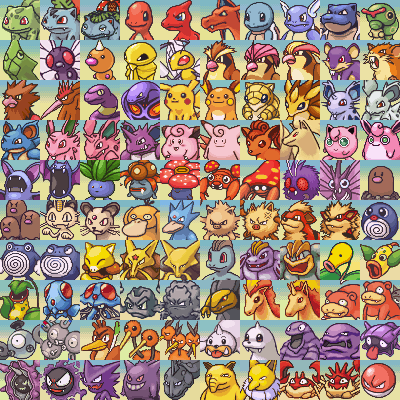
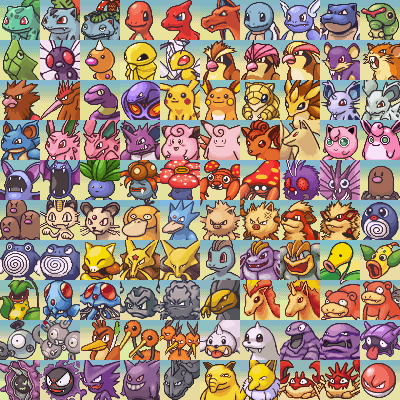
Supporting Shiny Pokémon!
Includes sprites for Shiny Bulbasaur & Bellsprout

Changed region(s): [[0.0, 0.0, 0.12, 0.12]]

diff --git a/PMDMMOc/src/com/darkxell/client/resources/images/pokemon/PokemonPortrait.java b/PMDMMOc/src/com/darkxell/client/resources/images/pokemon/PokemonPortrait.java
@@ -13,10 +13,16 @@ public class PokemonPortrait
 	private static final HashMap<Integer, Integer> alternateIDs = new HashMap<Integer, Integer>();
 	private static final int cols = 10, rows = 10;
 	public static final int PORTRAIT_SIZE = 40;
-	private static final PokemonPortrait portraits0 = new PokemonPortrait("resources/pokemons/portraits/portraits0.png"), portraits1 = new PokemonPortrait(
-			"resources/pokemons/portraits/portraits1.png"), portraits2 = new PokemonPortrait("resources/pokemons/portraits/portraits2.png"),
+	private static final PokemonPortrait portraits0 = new PokemonPortrait("resources/pokemons/portraits/portraits0.png"),
+			portraits1 = new PokemonPortrait("resources/pokemons/portraits/portraits1.png"),
+			portraits2 = new PokemonPortrait("resources/pokemons/portraits/portraits2.png"),
 			portraits3 = new PokemonPortrait("resources/pokemons/portraits/portraits3.png");
+	private static final PokemonPortrait portraits0S = new PokemonPortrait("resources/pokemons/portraits/portraits0s.png"),
+			portraits1S = new PokemonPortrait("resources/pokemons/portraits/portraits1s.png"),
+			portraits2S = new PokemonPortrait("resources/pokemons/portraits/portraits2s.png"),
+			portraits3S = new PokemonPortrait("resources/pokemons/portraits/portraits3s.png");
 	private static final PokemonPortrait portraitsAlternate = new PokemonPortrait("resources/pokemons/portraits/portraits-alternate.png");
+	private static final PokemonPortrait portraitsAlternateS = new PokemonPortrait("resources/pokemons/portraits/portraits-alternates.png");
 
 	static
 	{
@@ -33,7 +39,7 @@ public class PokemonPortrait
 		int set = pokemon.species.id / 100, index = pokemon.species.id % 100 - 1;
 		if (pokemon.species.formID != 0)
 		{
-			sheet = portraitsAlternate;
+			sheet = pokemon.isShiny ? portraitsAlternateS : portraitsAlternate;
 			index = alternateIDs.get(pokemon.species.compoundID());
 		} else
 		{
@@ -46,19 +52,19 @@ public class PokemonPortrait
 			switch (set)
 			{
 				case 1:
-					sheet = portraits1;
+					sheet = pokemon.isShiny ? portraits1S : portraits1;
 					break;
 
 				case 2:
-					sheet = portraits2;
+					sheet = pokemon.isShiny ? portraits2S : portraits2;
 					break;
 
 				case 3:
-					sheet = portraits3;
+					sheet = pokemon.isShiny ? portraits3S : portraits3;
 					break;
 
 				default:
-					sheet = portraits0;
+					sheet = pokemon.isShiny ? portraits0S : portraits0;
 					break;
 			}
 		}

diff --git a/PMDMMOc/src/com/darkxell/client/renderers/floor/PokemonRenderer.java b/PMDMMOc/src/com/darkxell/client/renderers/floor/PokemonRenderer.java
@@ -40,7 +40,7 @@ public class PokemonRenderer extends AbstractRenderer
 	{
 		super(pokemon.tile.x, pokemon.tile.y, MasterDungeonRenderer.LAYER_POKEMON);
 		this.pokemon = pokemon;
-		this.sprite = new PokemonSprite(PokemonSpritesets.getSpriteset(this.pokemon.pokemon.species.compoundID()));
+		this.sprite = new PokemonSprite(PokemonSpritesets.getSpriteset(this.pokemon.pokemon));
 	}
 
 	public void addAnimation(PokemonAnimation animation)
@@ -55,8 +55,7 @@ public class PokemonRenderer extends AbstractRenderer
 
 	public void removeAnimation(Object source)
 	{
-		this.animations.removeIf(new Predicate<AbstractAnimation>()
-		{
+		this.animations.removeIf(new Predicate<AbstractAnimation>() {
 			@Override
 			public boolean test(AbstractAnimation t)
 			{
@@ -87,8 +86,8 @@ public class PokemonRenderer extends AbstractRenderer
 			int xPos = (int) (this.x() + p.x), yPos = (int) (this.y() + p.y);
 			BufferedImage shadow = this.sprite.getCurrentSprite().getWidth() >= 48 ? ShadowSprites.instance.getBig(this.sprite.getShadowColor())
 					: ShadowSprites.instance.getSmall(this.sprite.getShadowColor());
-			g.drawImage(shadow, xPos + this.sprite.getCurrentSprite().getWidth() / 2 - shadow.getWidth() / 2, yPos + this.sprite.getCurrentSprite().getHeight()
-					- shadow.getHeight(), null);
+			g.drawImage(shadow, xPos + this.sprite.getCurrentSprite().getWidth() / 2 - shadow.getWidth() / 2,
+					yPos + this.sprite.getCurrentSprite().getHeight() - shadow.getHeight(), null);
 
 			for (PokemonAnimation animation : this.animations)
 				animation.prerender(g, width, height);

diff --git a/PMDMMOc/src/com/darkxell/client/resources/images/pokemon/PokemonSpritesets.java b/PMDMMOc/src/com/darkxell/client/resources/images/pokemon/PokemonSpritesets.java
@@ -5,6 +5,8 @@ import java.util.HashMap;
 
 import org.jdom2.Element;
 
+import com.darkxell.client.resources.Res;
+import com.darkxell.common.pokemon.Pokemon;
 import com.darkxell.common.util.XMLUtils;
 
 public final class PokemonSpritesets
@@ -28,6 +30,16 @@ public final class PokemonSpritesets
 		return spritesets.get(id);
 	}
 
+	public static AbstractPokemonSpriteset getSpriteset(Pokemon pokemon)
+	{
+		return getSpriteset(getSpritesetID(pokemon));
+	}
+
+	public static int getSpritesetID(Pokemon pokemon)
+	{
+		return (pokemon.isShiny ? -1 : 1) * pokemon.species.compoundID();
+	}
+
 	/** Reads the sprites data file. */
 	public static void loadData()
 	{
@@ -41,14 +53,15 @@ public final class PokemonSpritesets
 	private static void loadSpriteset(int id)
 	{
 		if (spritesets.containsKey(id)) return;
-		Element xml = spritedata.get(id);
+		Element xml = spritedata.get(Math.abs(id));
 		if (xml == null)
 		{
 			spritesets.put(id, spritesets.get(0));
 			return;
 		}
 
-		spritesets.put(id, new AbstractPokemonSpriteset("/pokemons/pkmn" + id + ".png", xml,id));
+		if (id < 0 && Res.exists("/pokemons/pkmn" + (-id) + "s.png")) spritesets.put(id, new AbstractPokemonSpriteset("/pokemons/pkmn" + (-id) + "s.png", xml, -id));
+		else spritesets.put(id, new AbstractPokemonSpriteset("/pokemons/pkmn" + Math.abs(id) + ".png", xml, Math.abs(id)));
 	}
 
 	private PokemonSpritesets()

diff --git a/PMDMMOc/src/com/darkxell/client/mechanics/freezones/entities/PokemonFreezoneEntity.java b/PMDMMOc/src/com/darkxell/client/mechanics/freezones/entities/PokemonFreezoneEntity.java
@@ -26,9 +26,9 @@ public class PokemonFreezoneEntity extends FreezoneEntity {
 
 	@Override
 	public void onInteract() {
-		Pokemon p = PokemonRegistry.find(69).generate(new Random(), 0);
+		Pokemon p = new Pokemon(0, PokemonRegistry.find(69), null, null, null, 0, 0, 1, null, null, null, null, (byte) 0, 0, true);
 		ArrayList<DialogScreen> screens = new ArrayList<DialogState.DialogScreen>();
-		screens.add(new DialogScreen(p, new Message("Hey there! <br>This is a debug string to try to know if the dialog boxes are working! Item descriptions are coming next.", false)));
+		screens.add(new DialogScreen(p, new Message("Hey there! I'm Shiny :D<br>This is a debug string to try to know if the dialog boxes are working! Item descriptions are coming next.", false)));
 		screens.add(new DialogScreen(p, new Message("item.info.53")));
 		screens.add(new DialogScreen(PokemonRegistry.find(168).generate(new Random(), 0), new Message("item.info.69")));
 		if(Persistance.stateManager instanceof PrincipalMainState)

diff --git a/PMDMMOc/src/com/darkxell/client/mechanics/freezones/zones/PokemonSquareFreezone.java b/PMDMMOc/src/com/darkxell/client/mechanics/freezones/zones/PokemonSquareFreezone.java
@@ -74,7 +74,7 @@ public class PokemonSquareFreezone extends FreezoneMap {
 		this.entities.add(new AnimatedFlowerEntity(57, 21, true));
 		this.entities.add(new AnimatedFlowerEntity(49, 37, true));
 
-		this.entities.add(new PokemonFreezoneEntity(71, 34, new PokemonSprite(PokemonSpritesets.getSpriteset(69))));
+		this.entities.add(new PokemonFreezoneEntity(71, 34, new PokemonSprite(PokemonSpritesets.getSpriteset(-69))));
 
 		this.entities.add(new SignSoulEntity(13.5, 37, new Message("sign.pokemonsquare.west")));
 		this.entities.add(new SignSoulEntity(68.5, 10, new Message("sign.pokemonsquare.north")));

diff --git a/PMDMMOc/src/com/darkxell/client/resources/Res.java b/PMDMMOc/src/com/darkxell/client/resources/Res.java
@@ -11,6 +11,13 @@ import com.darkxell.common.util.Logger;
 /** Class that holds commonly used resources utility. */
 public class Res {
 
+	/** @param path - Path to a resource.
+	 * @return True if the resource exists. */
+	public static boolean exists(String path)
+	{
+		return Res.class.getResourceAsStream(path) != null;
+	}
+
 	/** Gets an image from the res folder as a BufferedImage. */
 	public static BufferedImage getBase(String path) {
 		BufferedImage img = null;

diff --git a/PMDMMOc/src/com/darkxell/client/launchable/Persistance.java b/PMDMMOc/src/com/darkxell/client/launchable/Persistance.java
@@ -51,7 +51,7 @@ public abstract class Persistance {
 	public static ClientEventProcessor eventProcessor;
 
 	static {
-		player.addAlly(PokemonRegistry.find(1).generate(new Random(), 1));
+		player.addAlly(PokemonRegistry.find(1).generate(new Random(), 1, 1));
 		player.addAlly(PokemonRegistry.find(16).generate(new Random(), 1));
 		player.getTeamLeader().setMove(0, new LearnedMove(303));
 	}
